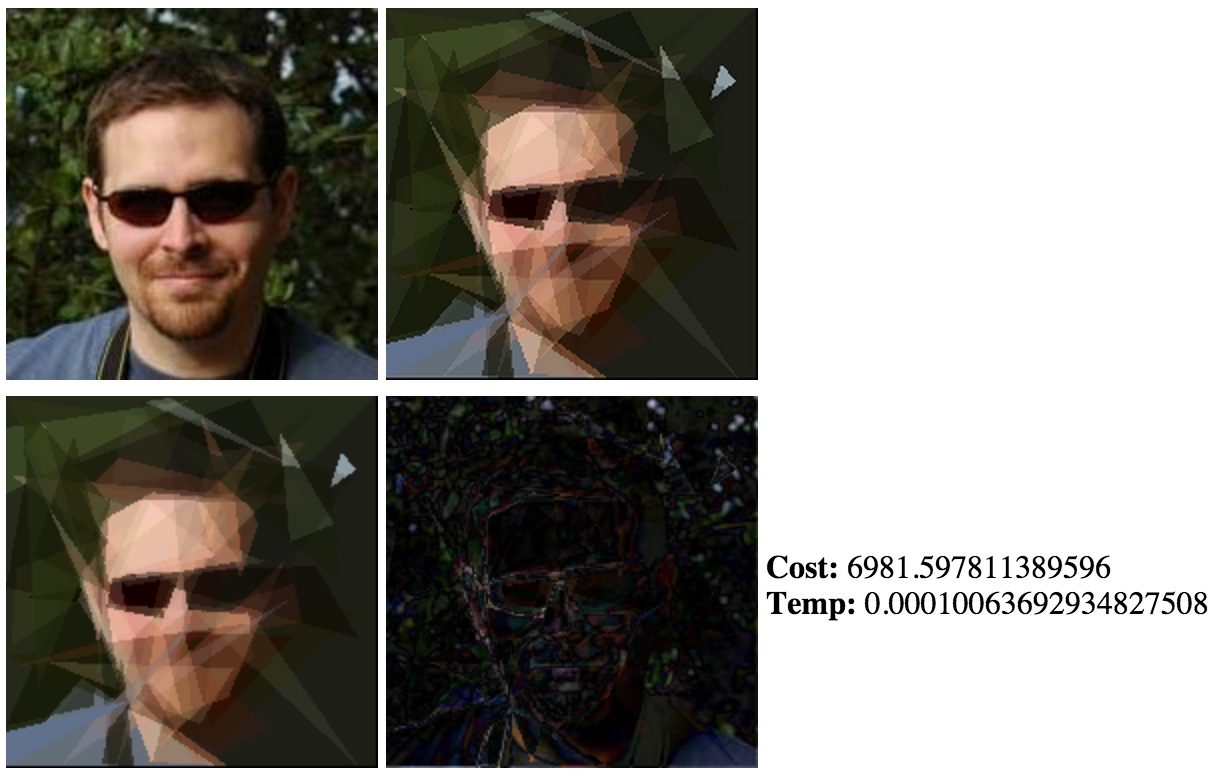
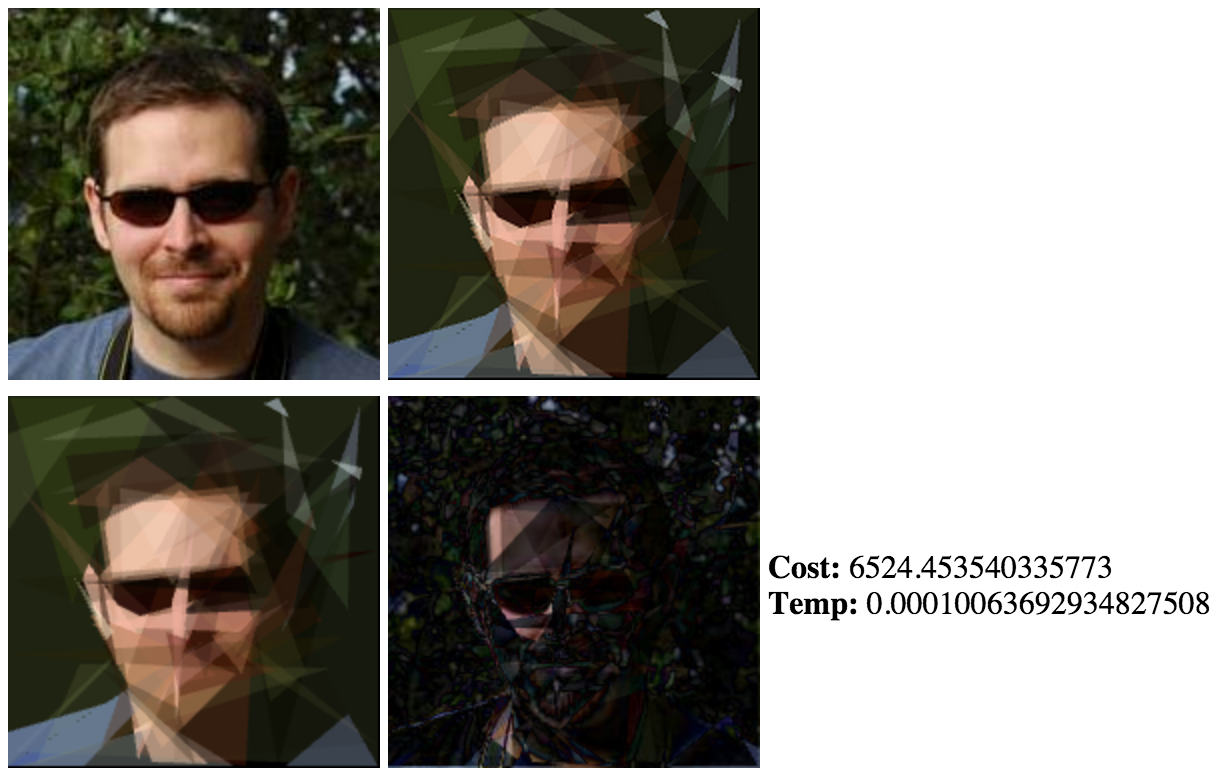
Enable anti-aliasing
Update associated screenshot

diff --git a/index.html b/index.html
@@ -44,7 +44,7 @@
       var srcCanvas = document.getElementById("srcCanvas");
       var srcCtx = srcCanvas.getContext("2d");
 
-      var renderer = new THREE.WebGLRenderer({ preserveDrawingBuffer: true });
+      var renderer = new THREE.WebGLRenderer({ antialias: true });
       renderer.setSize(this.width, this.height);
       var camera = new THREE.OrthographicCamera(0, this.width, 0, this.height, 0, 1);
       document.getElementById("computed").appendChild(renderer.domElement);
